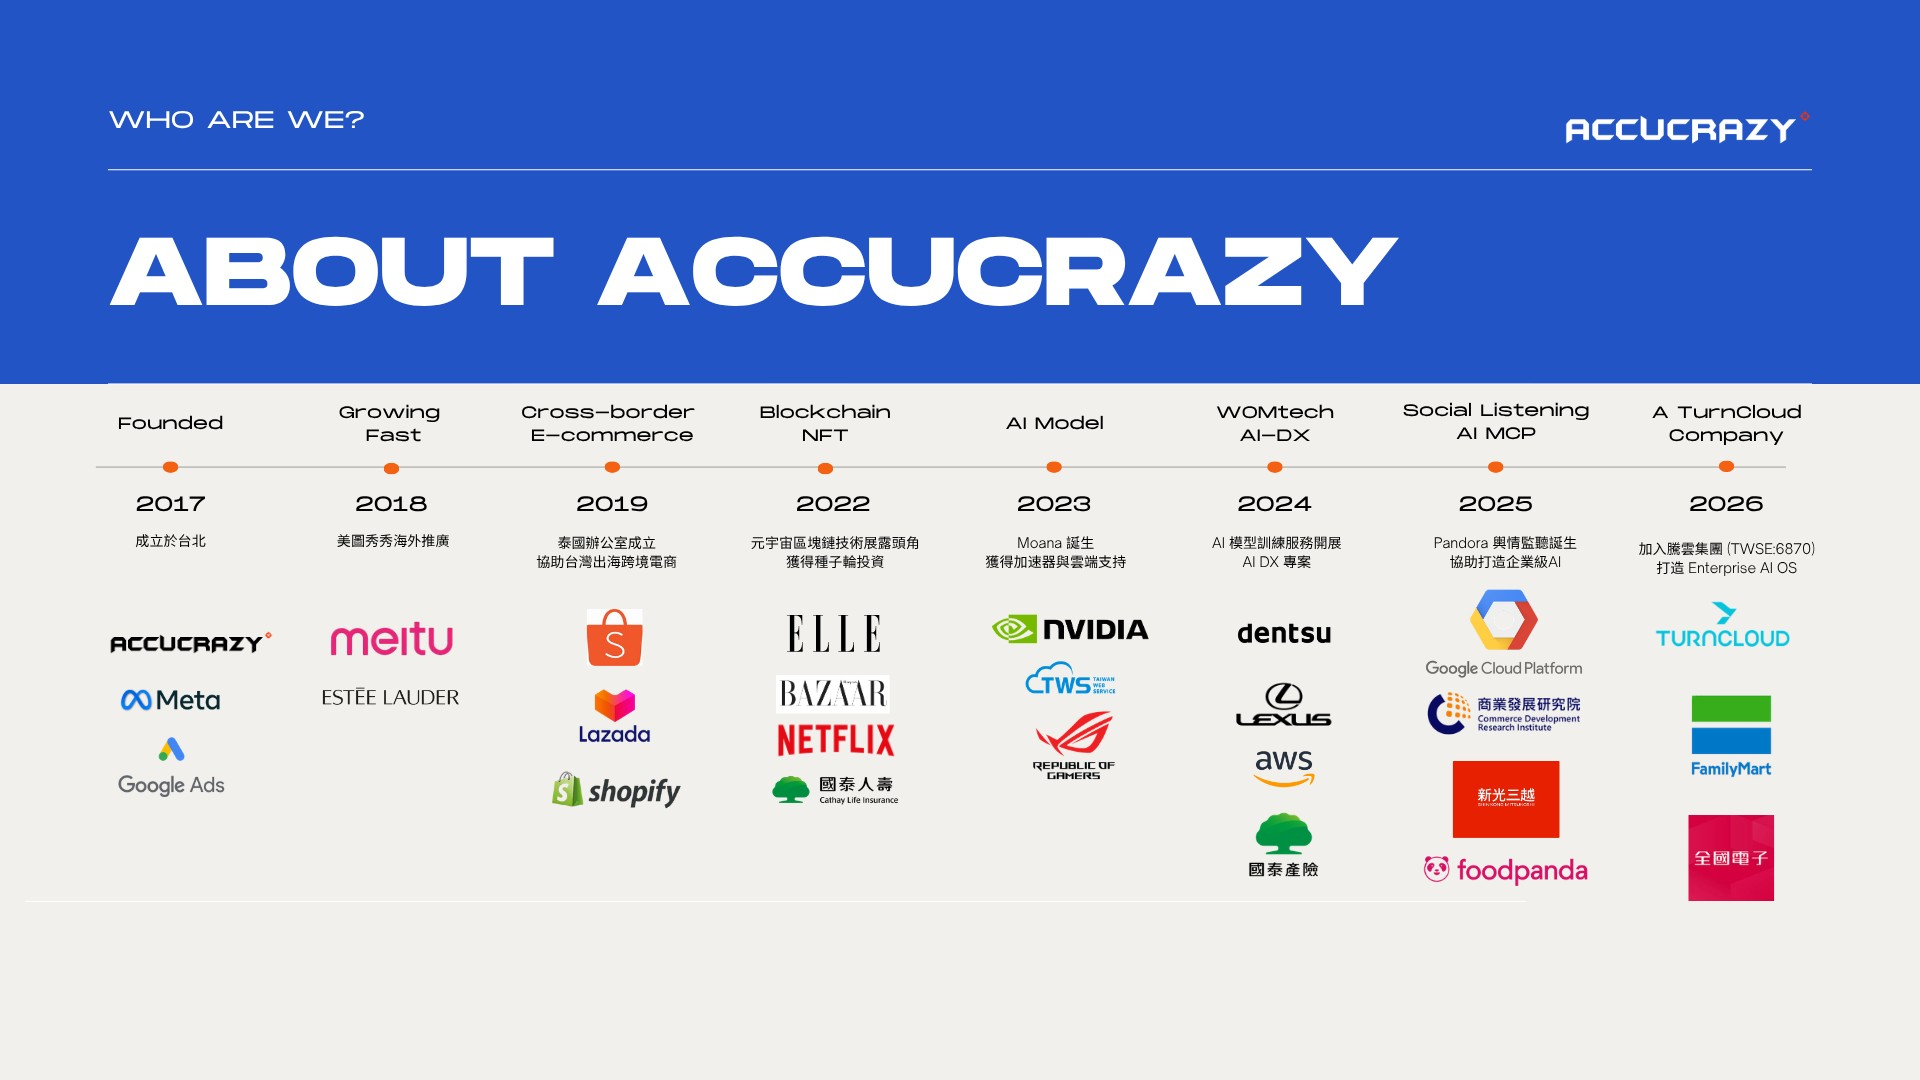
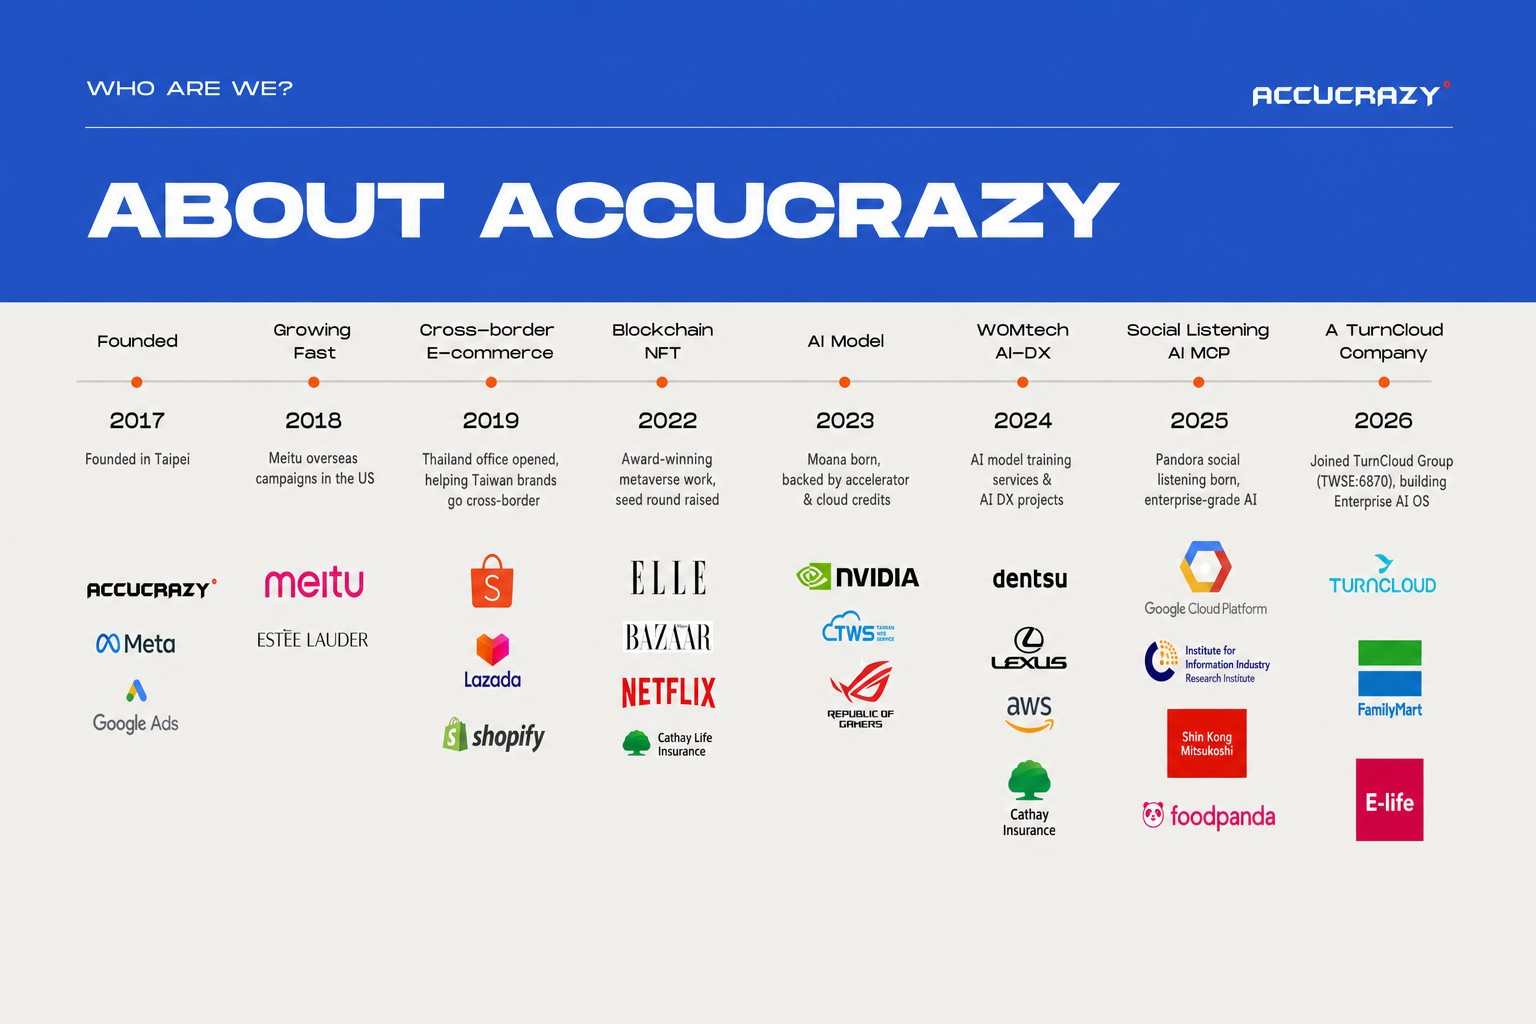
siam-partnership: intro section all-English rebuild with real photos (bio HTML, NVIDIA photo wall x4, EN timeline, brand wall)

Changed region(s): [[0.0, 0.1562, 1.0, 0.8438], [0.8125, 0.0625, 0.9375, 0.1562], [0.0625, 0.0625, 0.1875, 0.125]]

diff --git a/tpc-siam-partnership/index.html b/tpc-siam-partnership/index.html
@@ -3270,6 +3270,25 @@ h3 { font-size: 3cqh; font-weight: 700; color: var(--text); }
 .sp-phase h5 { font-size: 2.7cqh; font-weight: 800; color: var(--text); margin: 0.4cqh 0; }
 .sp-phase p { font-size: 1.85cqh; color: var(--dim); line-height: 1.45; }
 .sp-phase p strong { color: var(--text); }
+
+/* ── intro (Accucrazy self-intro) ── */
+.sp-bio { display: flex; gap: 3cqh; flex: 1; min-height: 0; margin-top: 1.6cqh; align-items: stretch; }
+.sp-bio .bl { flex: 1.15; display: flex; flex-direction: column; gap: 1.8cqh; min-width: 0; justify-content: center; }
+.sp-bio .bl ul { list-style: none; display: flex; flex-direction: column; gap: 1.5cqh; }
+.sp-bio .bl li { font-size: 2.55cqh; color: var(--dim); line-height: 1.4; padding-left: 2.6cqh; position: relative; }
+.sp-bio .bl li::before { content: '▸'; position: absolute; left: 0; color: var(--cyan); font-weight: 900; }
+.sp-bio .bl li strong { color: var(--text); }
+.sp-bio .pills { display: flex; gap: 1.4cqh; flex-wrap: wrap; }
+.sp-bio .pill { font-family: 'JetBrains Mono', monospace; font-size: 1.55cqh; letter-spacing: 1px; font-weight: 700; color: var(--cyan); background: var(--cyan-bg); border-radius: 999px; padding: 1cqh 1.8cqh; }
+.sp-bio .br { flex: 0.85; border-radius: 14px; overflow: hidden; border: 1px solid var(--border); box-shadow: var(--shadow-sm); position: relative; min-height: 0; background: #0b1220; }
+.sp-bio .br img { width: 100%; height: 100%; object-fit: cover; object-position: center top; display: block; }
+.sp-bio .br .cap { position: absolute; left: 1.4cqh; bottom: 1.2cqh; background: rgba(15,23,42,.85); color: #fff; font-family: 'JetBrains Mono', monospace; font-size: 1.35cqh; letter-spacing: 1px; padding: 0.5cqh 1cqh; border-radius: 999px; }
+.sp-photowall { display: grid; grid-template-columns: 1.15fr 1fr 0.9fr 0.9fr; gap: 1.8cqh; flex: 1; min-height: 0; margin-top: 1.8cqh; }
+.sp-photowall .ph { border-radius: 12px; overflow: hidden; border: 1px solid var(--border); box-shadow: var(--shadow-sm); position: relative; min-height: 0; background: #0b1220; }
+.sp-photowall .ph img { width: 100%; height: 100%; object-fit: cover; object-position: center top; display: block; }
+.sp-photowall .ph .lbl { position: absolute; left: 1.2cqh; bottom: 1cqh; right: 1.2cqh; background: rgba(15,23,42,.85); color: #fff; font-family: 'JetBrains Mono', monospace; font-size: 1.3cqh; letter-spacing: 1px; padding: 0.5cqh 0.9cqh; border-radius: 8px; text-align: center; }
+.sp-brandwall { flex: 1; min-height: 0; margin-top: 1.8cqh; border-radius: 14px; border: 1px solid var(--border); box-shadow: var(--shadow-sm); background: #fff; display: flex; align-items: center; justify-content: center; overflow: hidden; padding: 1.5cqh; }
+.sp-brandwall img { max-width: 100%; max-height: 100%; object-fit: contain; display: block; }
 </style>
 </head>
 <body>
@@ -3321,21 +3340,60 @@ and it is <strong>already listening to your world</strong>: 2.18M conversations 
 
 <!-- ══════════ SLIDE 1a: intro_bio — Ian Wu / Accucrazy ══════════ -->
 
-<div class="slide fullbleed" data-slide="intro_bio">
-    <img class="fullbleed-media" src="img/intro_bio.jpg" alt="Ian Wu — Founder & CEO, Accucrazy · The Pocket Company · worked with 300+ brands · recognized by NVIDIA, AWS, CHT">
-    <div class="meta fullbleed-meta">
-        <span>Who's talking — Ian Wu · Founder & CEO · Accucrazy</span>
-        <span class="pg">02 / 32</span>
+<div class="slide bg-cyan" data-slide="intro_bio">
+    <div class="slide-content">
+        <div class="tag tag-cyan">WHO'S TALKING</div>
+        <h2>Ian Wu — <span class="c">Founder & CEO, Accucrazy</span></h2>
+        <p class="sub">The Pocket Company · now part of <strong>TurnCloud (TWSE:6870)</strong> · Build for the NOW.</p>
+
+        <div class="sp-bio">
+            <div class="bl">
+                <ul>
+                    <li>Closed <strong>Musica.ly's (now TikTok) first US deal</strong> — where Content Tech began</li>
+                    <li>VP of Global Business Development, <strong>Meitu</strong></li>
+                    <li>Head of Strategic Partnerships, <strong>Cheetah Mobile</strong></li>
+                    <li>Product Manager, <strong>ASUS · HTC</strong></li>
+                    <li>AI speaker — <strong>NVIDIA · Google · TVBS · AI Taiwan</strong></li>
+                </ul>
+                <div class="pills">
+                    <div class="pill">300+ BRANDS SERVED</div>
+                    <div class="pill">RECOGNIZED BY NVIDIA · AWS · CHT</div>
+                    <div class="pill">1ST TIKTOK DEAL IN THE US</div>
+                </div>
+            </div>
+            <div class="br">
+                <img src="img/intro_google.jpg" alt="Ian Wu speaking at Google Cloud Startup event, Taipei">
+                <div class="cap">GOOGLE CLOUD STARTUP · TAIPEI</div>
+            </div>
+        </div>
+
+        <div class="meta">
+            <span>Who's talking — Ian Wu · Founder & CEO · Accucrazy</span>
+            <span class="pg">02 / 32</span>
+        </div>
     </div>
 </div>
 
-<!-- ══════════ SLIDE 1b: intro_nvidia — NVIDIA GTC moment ══════════ -->
+<!-- ══════════ SLIDE 1b: intro_nvidia — NVIDIA moments photo wall ══════════ -->
 
-<div class="slide fullbleed" data-slide="intro_nvidia">
-    <img class="fullbleed-media" src="img/intro_nvidia.jpg" alt="Accucrazy on the NVIDIA GTC keynote partner wall · NVIDIA Inception Startup · Business Weekly coverage">
-    <div class="meta fullbleed-meta">
-        <span>NVIDIA GTC keynote partner wall · NVIDIA Inception Startup · Business Weekly</span>
-        <span class="pg">03 / 32</span>
+<div class="slide bg-dark" data-slide="intro_nvidia">
+    <div class="slide-content">
+        <div class="tag tag-green">RECOGNIZED BY NVIDIA</div>
+        <h2>On the <span class="c">GTC keynote wall</span> — and on the ground.</h2>
+
+        <div class="sp-photowall">
+            <div class="ph"><img src="img/intro_gtc.jpg" alt="Accucrazy on the NVIDIA GTC keynote partner wall"><div class="lbl">GTC KEYNOTE · PARTNER WALL</div></div>
+            <div class="ph"><img src="img/intro_booth.jpg" alt="Accucrazy team at the NVIDIA Inception Startup booth"><div class="lbl">NVIDIA INCEPTION STARTUP</div></div>
+            <div class="ph"><img src="img/intro_talk.jpg" alt="Ian Wu presenting The Pocket Company at an NVIDIA event"><div class="lbl">FULL HOUSE · NVIDIA MEETUP</div></div>
+            <div class="ph"><img src="img/intro_dance.jpg" alt="Ian Wu having fun next to an NVIDIA banner"><div class="lbl">…AND WE HAVE FUN</div></div>
+        </div>
+
+        <div class="sp-wall-note">Featured in <strong>Business Weekly</strong> · NVIDIA Inception Startup</div>
+
+        <div class="meta">
+            <span>Recognized by NVIDIA — Inception Startup · GTC keynote partner wall</span>
+            <span class="pg">03 / 32</span>
+        </div>
     </div>
 </div>
 
@@ -3351,11 +3409,20 @@ and it is <strong>already listening to your world</strong>: 2.18M conversations 
 
 <!-- ══════════ SLIDE 1d: intro_brands — brand wall ══════════ -->
 
-<div class="slide fullbleed" data-slide="intro_brands">
-    <img class="fullbleed-media" src="img/intro_brands.jpg" alt="Brands already using our services — Shin Kong Mitsukoshi, GAP, Lexus, FamilyMart, foodpanda, LG, dentsu, PUMA, OPPO, Nestle and more">
-    <div class="meta fullbleed-meta">
-        <span>Brands already on board — retail · beauty · F&B · tech · insurance</span>
-        <span class="pg">05 / 32</span>
+<div class="slide bg-cyan" data-slide="intro_brands">
+    <div class="slide-content">
+        <div class="tag tag-cyan">TRACK RECORD</div>
+        <h2><span class="c">These brands</span> already run on our services.</h2>
+        <p class="sub">Retail · beauty · F&B · tech · insurance — across Taiwan and beyond.</p>
+
+        <div class="sp-brandwall">
+            <img src="img/intro_brands.jpg" alt="Brands already using our services — Shin Kong Mitsukoshi, GAP, Lexus, FamilyMart, foodpanda, LG, dentsu, PUMA, OPPO, Nestle and more">
+        </div>
+
+        <div class="meta">
+            <span>Brands already on board — retail · beauty · F&B · tech · insurance</span>
+            <span class="pg">05 / 32</span>
+        </div>
     </div>
 </div>
 

diff --git a/SLIDE_FRAMEWORK.md b/SLIDE_FRAMEWORK.md
@@ -1226,7 +1226,7 @@ gcloud compute ssh reel-studio --zone=asia-east1-b --project=the-pocket-banana-f
 
 | 頁 | data-slide | 內容 |
 | --- | --- | --- |
-| 02–05（新增） | `intro_bio / intro_nvidia / intro_about / intro_brands` | **Accucrazy 開場自介 ×4**，全部走 `fullbleed` 版型（滿版圖＋底部 meta 條）：Ian Wu bio（`intro_bio.jpg`）、NVIDIA GTC keynote 合作牆＋商周報導（`intro_nvidia.jpg`）、About Accucrazy 2017→2026 時間軸（`intro_about.jpg`）、品牌牆「這些品牌已經導入我們的服務」（`intro_brands.jpg`）。原圖從 `ai-talk-deck/img/talk/`（bio / accucrazy-nvidia / t03 / t05）轉成 jpg 放進本 deck `img/` |
+| 02–05（新增） | `intro_bio / intro_nvidia / intro_about / intro_brands` | **Accucrazy 開場自介 ×4，全英文**：02 = HTML bio（左＝英文經歷 bullets＋3 顆 pill，右＝Google Cloud Startup 演講照 `intro_google.jpg`，CSS `sp-bio`）；03 = NVIDIA 照片牆 ×4（`sp-photowall`：GTC keynote 合作牆 `intro_gtc.jpg`、Inception 攤位合照 `intro_booth.jpg`、NVIDIA meetup 滿場 `intro_talk.jpg`、NVIDIA 立牌趣味照 `intro_dance.jpg`）；04 = fullbleed 英文版時間軸 `intro_about.jpg`（Banana 把 t03 中文小字全英譯）；05 = HTML 品牌牆（英文標題＋裁掉中文標題的 t05 logo 牆 `intro_brands.jpg`，CSS `sp-brandwall`）。手機截圖類照片先 PIL 裁掉手機 UI；燒錄中文字幕的 2 張 reels 用 Banana（GenerateImage）去字幕＋去 UI 重建 |
 | 01 封面 | （cover） | 改為 Content Tech 提案：`Content Tech — Turning great places into compounding stories`，lede 直接點出 2.18M conversations。封面圖換成 **Banana（GenerateImage）生成的曼谷版團隊圖** `img/cover_hero_bangkok.jpg`（以 santamonica 版當 reference，背景換昭披耶河 + ICONSIAM + 鄭王廟） |
 | 13（新增） | `siam_proof` | **Pandora 已在監聽的實證**：4 張統計卡（2.18M volume / 3,298 curated / 12 keywords / 83K top post）+ 5 列關鍵字排行（芒果糯米 1.06M 置頂、ICONSIAM 577K、Paragon 248K、Siam Center 193K、體驗層合計）。數據來自 pandora.thepocket.company 的 12 組監聽報告 |
 | 14（新增） | `siam_reports` | **真實報告牆**：3 張微傾斜的 Pandora 報告截圖（ICONSIAM 聲量報告 hero+統計 / 芒果糯米 AI 情緒分析滿版文字 / 分級排行文章列表含 83,075 讚置頂）＋標語 `Not slides. Real reports.`。截圖存 `img/report_*.jpg`（另有 mango_hero 樹狀圖與 mango_monthly 逐月敘事兩張備用檔已一併部署），要換截圖：開 report-view 頁 → CDP 設 1440 寬 viewport → 捲到該區塊再 captureScreenshot（內容是虛擬渲染，沒捲到會截到空白） |
@@ -1277,4 +1277,4 @@ gcloud compute ssh reel-studio --zone=asia-east1-b --project=the-pocket-banana-f
 
 ---
 
-*Last updated · 2026-07-23 · §16 `tpc-siam-partnership` 封面後新增 Accucrazy 自介 ×4（bio / NVIDIA GTC / About 時間軸 / 品牌牆，fullbleed 版型，圖轉自 `ai-talk-deck/img/talk/`）→ 全 deck 32 頁 · `/siam-partnership/` 已重部署。先前：洞察頁改圖文並茂：4 張洞察卡各嵌入 Pandora 分析過的真實貼文截圖（IG embed 截圖法）· `/siam-partnership/` 已重部署。先前：28 頁版（報告截圖牆＋曼谷版封面＋文案精簡）。先前：§15 `rtx-talk-deck` 接上 video-package.zip 真實影片共 31 頁（Demo B 換真實 tryon 影片；新增 `local-pose`（指定舞步實證）與 `local-vs-cloud`（同旗袍地端/雲端實測對照）；blocked 頁改用真實錯誤碼 5/5 數據；33 頁 nemo 圖檔全留在 `img/nemo/`）· `/rtx-talk/` 已重部署）。先前：§14 `ai-talk-deck`（44 頁 · 媒體只在當前頁播放規則 · `/ai-talk/` 部署）· §1.5 最新版投影片進度（24 頁逐頁清單）· This document is the Harness for the slide framework.*
+*Last updated · 2026-07-23 · §16 `tpc-siam-partnership` 自介四頁改全英文版：bio 改 HTML＋Google 演講照、NVIDIA 頁改 4 張真實照片牆（手機截圖 PIL 去 UI、燒錄中文字幕用 Banana 修掉）、時間軸 Banana 英譯、品牌牆裁掉中文標題改英文 HTML 標題 → 全 deck 32 頁 · `/siam-partnership/` 已重部署。先前：封面後新增 Accucrazy 自介 ×4。先前：洞察頁改圖文並茂：4 張洞察卡各嵌入 Pandora 分析過的真實貼文截圖（IG embed 截圖法）· `/siam-partnership/` 已重部署。先前：28 頁版（報告截圖牆＋曼谷版封面＋文案精簡）。先前：§15 `rtx-talk-deck` 接上 video-package.zip 真實影片共 31 頁（Demo B 換真實 tryon 影片；新增 `local-pose`（指定舞步實證）與 `local-vs-cloud`（同旗袍地端/雲端實測對照）；blocked 頁改用真實錯誤碼 5/5 數據；33 頁 nemo 圖檔全留在 `img/nemo/`）· `/rtx-talk/` 已重部署）。先前：§14 `ai-talk-deck`（44 頁 · 媒體只在當前頁播放規則 · `/ai-talk/` 部署）· §1.5 最新版投影片進度（24 頁逐頁清單）· This document is the Harness for the slide framework.*
